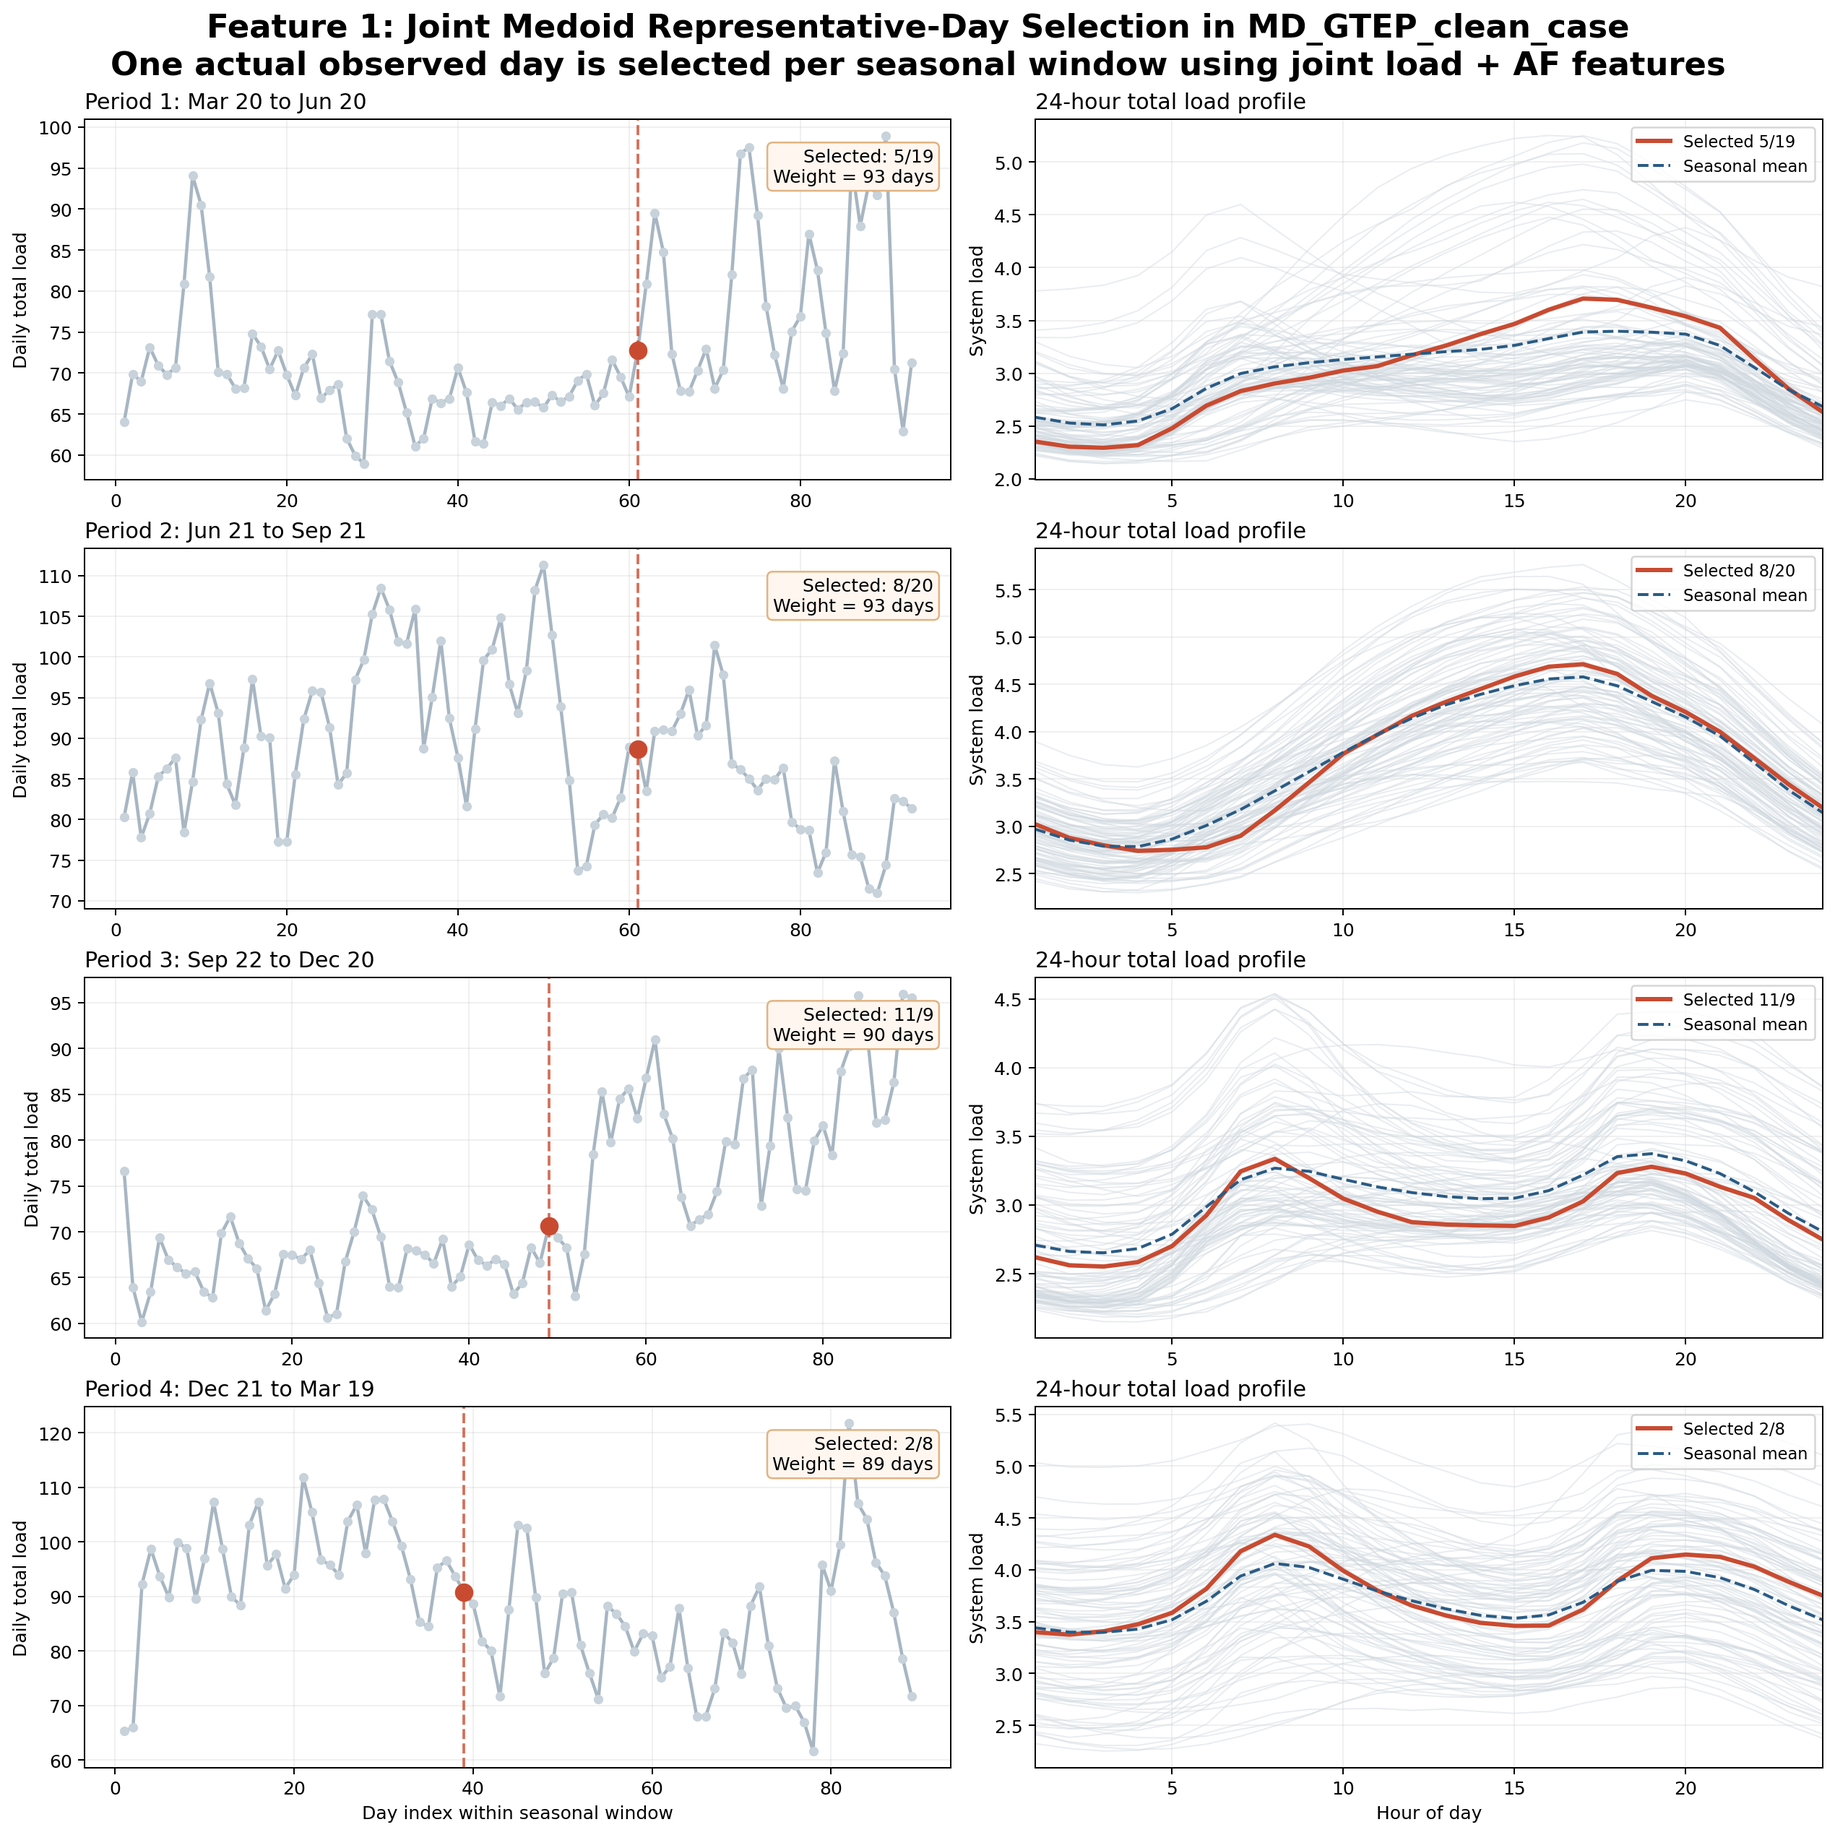
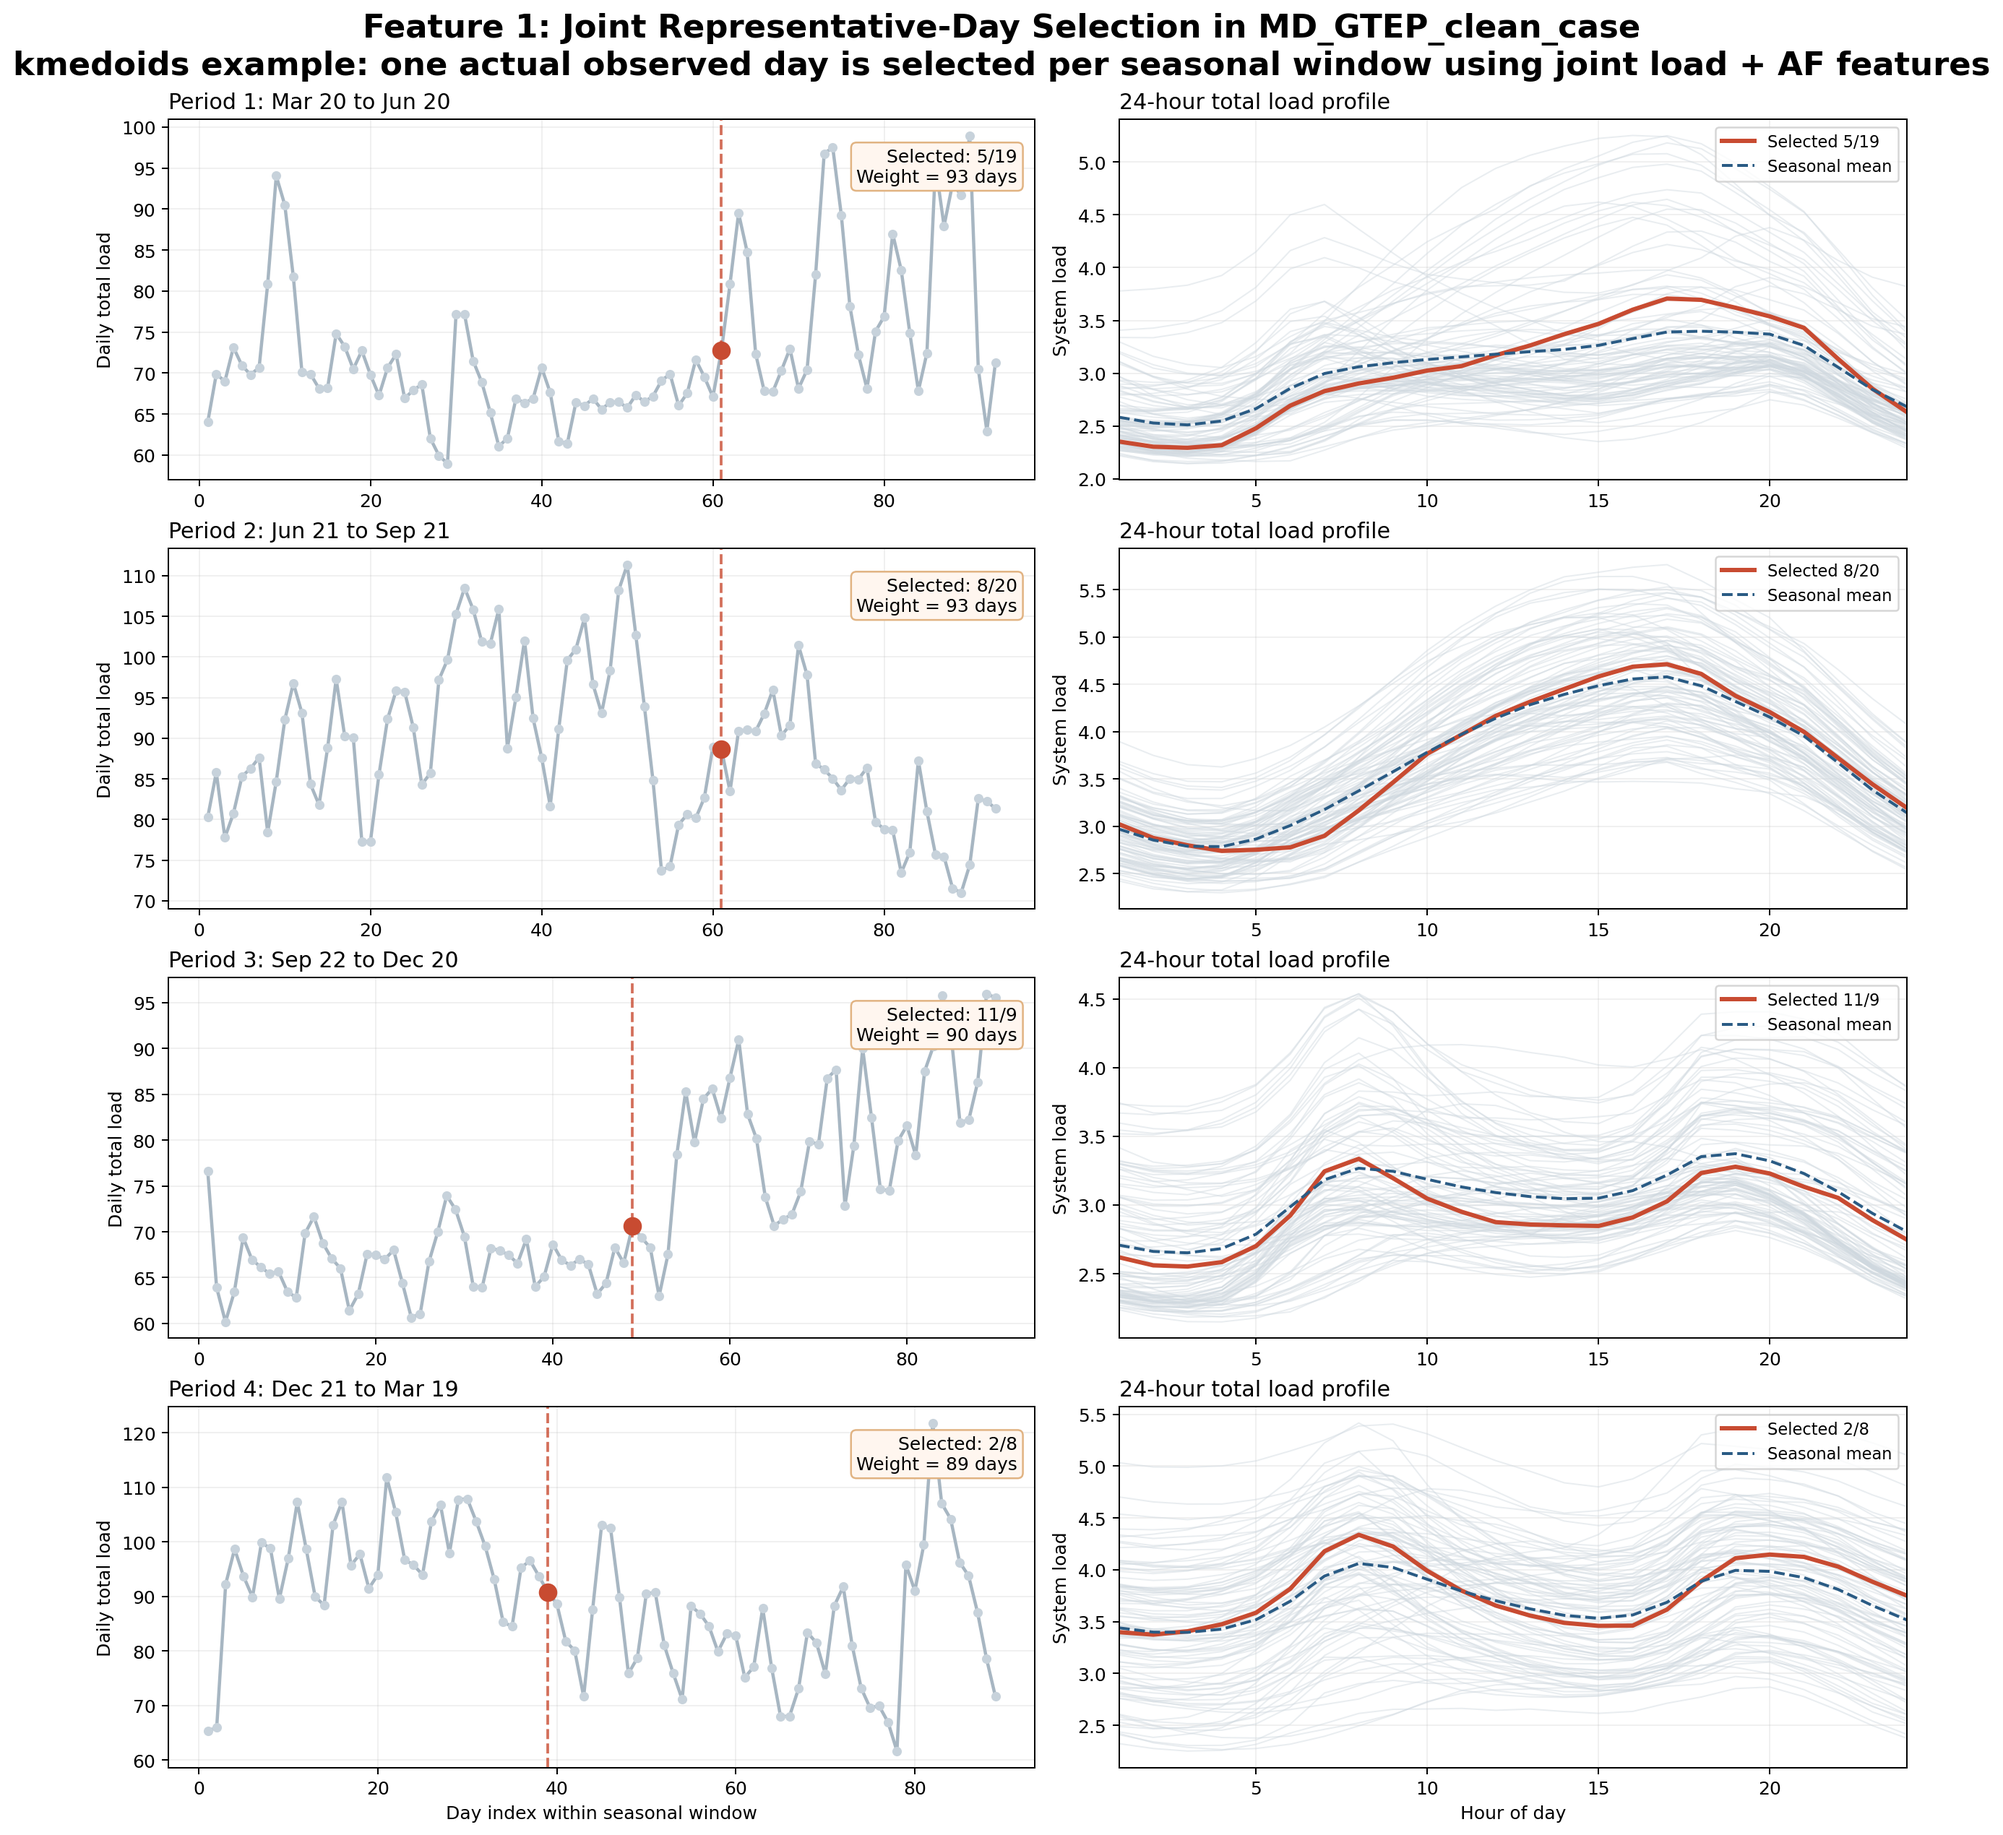
update kmeans method for rep-day

diff --git a/docs/generate_rep_day_md_example.py b/docs/generate_rep_day_md_example.py
@@ -148,8 +148,8 @@ def plot_feature1(df: pd.DataFrame) -> None:
         constrained_layout=True,
     )
     fig.suptitle(
-        "Feature 1: Joint Medoid Representative-Day Selection in MD_GTEP_clean_case\n"
-        "One actual observed day is selected per seasonal window using joint load + AF features",
+        "Feature 1: Joint Representative-Day Selection in MD_GTEP_clean_case\n"
+        "kmedoids example: one actual observed day is selected per seasonal window using joint load + AF features",
         fontsize=18,
         fontweight="bold",
     )

diff --git a/docs/src/rep_day.md b/docs/src/rep_day.md
@@ -23,7 +23,7 @@ This keeps `HOPE_model_settings.yml` high-level while leaving the chronology-red
 
 The user-facing representative-day feature set is:
 
-- `Feature 1: Joint Medoid Representative-Day Selection`
+- `Feature 1: Joint Representative-Day Selection`
 - `Feature 2: Multiple Representative Days per Time Period`
 - `Feature 3: Extreme-Day Augmentation`
 - `Feature 4: Planning-Focused Feature Engineering`
@@ -46,7 +46,8 @@ time_periods:
   4: [12, 21, 3, 19]
 
 # Clustering method for representative-day selection.
-# Current supported value for Features 1-6: kmedoids
+# kmedoids = actual observed representative day
+# kmeans = synthetic centroid representative period
 clustering_method: kmedoids
 
 # How HOPE builds the daily feature vector before clustering.
@@ -63,7 +64,7 @@ planning_feature_set:
   - system_net_load
   - system_ramp
 
-# Number of medoid representative days selected in each seasonal window.
+# Number of representative periods selected in each seasonal window.
 representative_days_per_period: 2
 
 # Feature 3: add explicit extreme days after medoid selection.
@@ -173,11 +174,11 @@ When representative-day mode is used, HOPE also writes audit tables into the cas
 - `representative_period_transition_weights.csv` and `representative_period_run_stats.csv` when storage linkage is enabled
 - `representative_period_weight_check.csv` to confirm that representative-period weights add back up to the original number of real days in each seasonal window
 
-## Feature 1: Joint Medoid Representative-Day Selection
+## Feature 1: Joint Representative-Day Selection
 
 ### Focus
 
-Feature 1 fixes the biggest weakness of the old endogenous representative-day method: it no longer constructs one synthetic day independently for each column.
+Feature 1 fixes the biggest weakness of the old endogenous representative-day method: HOPE now clusters days in one shared feature space instead of building one synthetic day independently for each column.
 
 ### Mechanism
 
@@ -185,17 +186,24 @@ Feature 1:
 
 - builds one joint daily feature vector using aligned load, generator availability, and optional DR profiles
 - clusters real days within each seasonal window
-- selects one actual observed medoid day per time period
+- builds one representative period per time period using either:
+  - `clustering_method: kmedoids` for one actual observed medoid day
+  - `clustering_method: kmeans` for one synthetic centroid period
 
-That means load, wind, solar, and other included inputs now come from the same real day.
+That means load, wind, solar, and other included inputs now come from the same shared clustering logic, rather than being constructed independently by column.
 
 ### Interpretation
 
 Feature 1 should be interpreted as:
 
-- one real representative day per seasonal window
+- one representative period per seasonal window
 - one weight per seasonal window
-- better preservation of cross-series consistency than the old centroid method
+- better preservation of cross-series consistency than the old independent-column centroid method
+
+The main user choice is:
+
+- `kmedoids`: one actual observed day, easier to interpret and audit
+- `kmeans`: one synthetic centroid period, smoother but less directly traceable to one real calendar day
 
 It is still a fairly aggressive reduction, because each season is compressed into only one day.
 
@@ -204,14 +212,19 @@ It is still a fairly aggressive reduction, because each season is compressed int
 Use Feature 1 when:
 
 - you want a simple and robust endogenous representative-day workflow
-- you want actual observed days instead of synthetic days
+- you want one representative period per season before turning on Features 2-6
 - solve speed matters more than fine chronology detail
 
 This is the best starting point for most endogenous rep-day studies.
 
+Recommended choice:
+
+- use `clustering_method: kmedoids` by default
+- use `clustering_method: kmeans` when you intentionally want smoother synthetic representative periods and you are comfortable giving up the direct link to one actual observed day
+
 ### Example
 
-Using the existing case `MD_GTEP_clean_case`, with:
+Using the existing case `MD_GTEP_clean_case`, with the `kmedoids` option:
 
 ```yaml
 time_periods:
@@ -219,6 +232,7 @@ time_periods:
   2: [6, 21, 9, 21]
   3: [9, 22, 12, 20]
   4: [12, 21, 3, 19]
+clustering_method: kmedoids
 feature_mode: joint_daily
 representative_days_per_period: 1
 add_extreme_days: 0
@@ -242,7 +256,7 @@ Mapping back to full chronology:
 Meaning:
 
 - $\mathcal{D}_t$: all real days in seasonal window $t$
-- $d_t^*$: the one selected medoid day
+- $d_t^*$: the one selected representative day in the `kmedoids` example
 - $w_t$: the number of original real days represented by that selected day
 
 ![Feature 1 representative-day selection in MD_GTEP_clean_case](assets/rep_day_md_case_example.png)
@@ -732,14 +746,6 @@ How to read the figure:
 ## Legacy Compatibility
 
 For older cases, HOPE still falls back to `time_periods` from `HOPE_model_settings.yml` if `HOPE_rep_day_settings.yml` is missing.
-
-HOPE also keeps a legacy comparison mode:
-
-```yaml
-feature_mode: legacy_column_centroid
-```
-
-That reproduces the old behavior of building one synthetic centroid day per time period, independently by column.
 
 ## References
 
